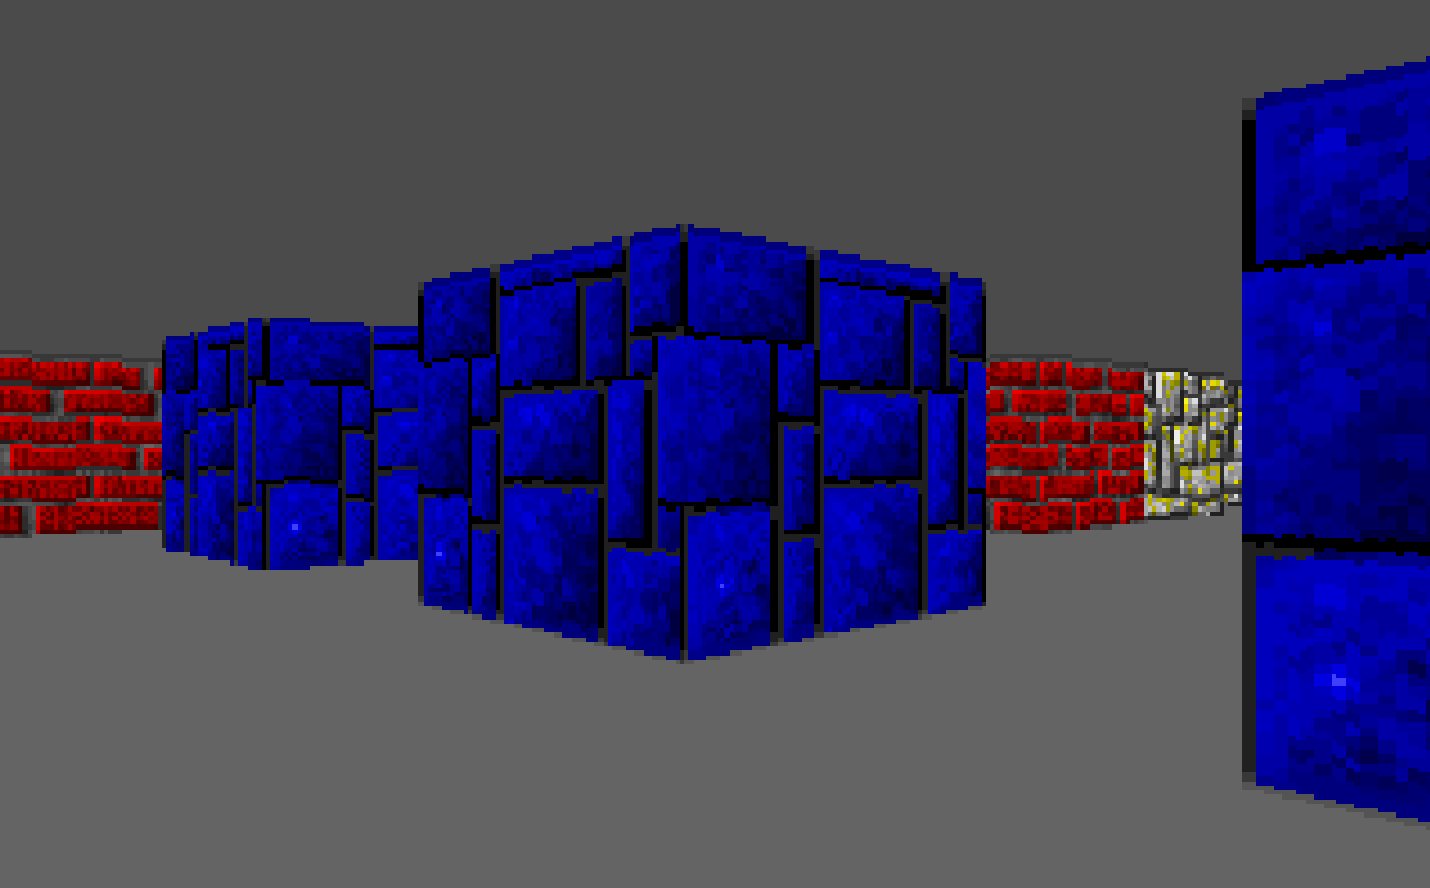
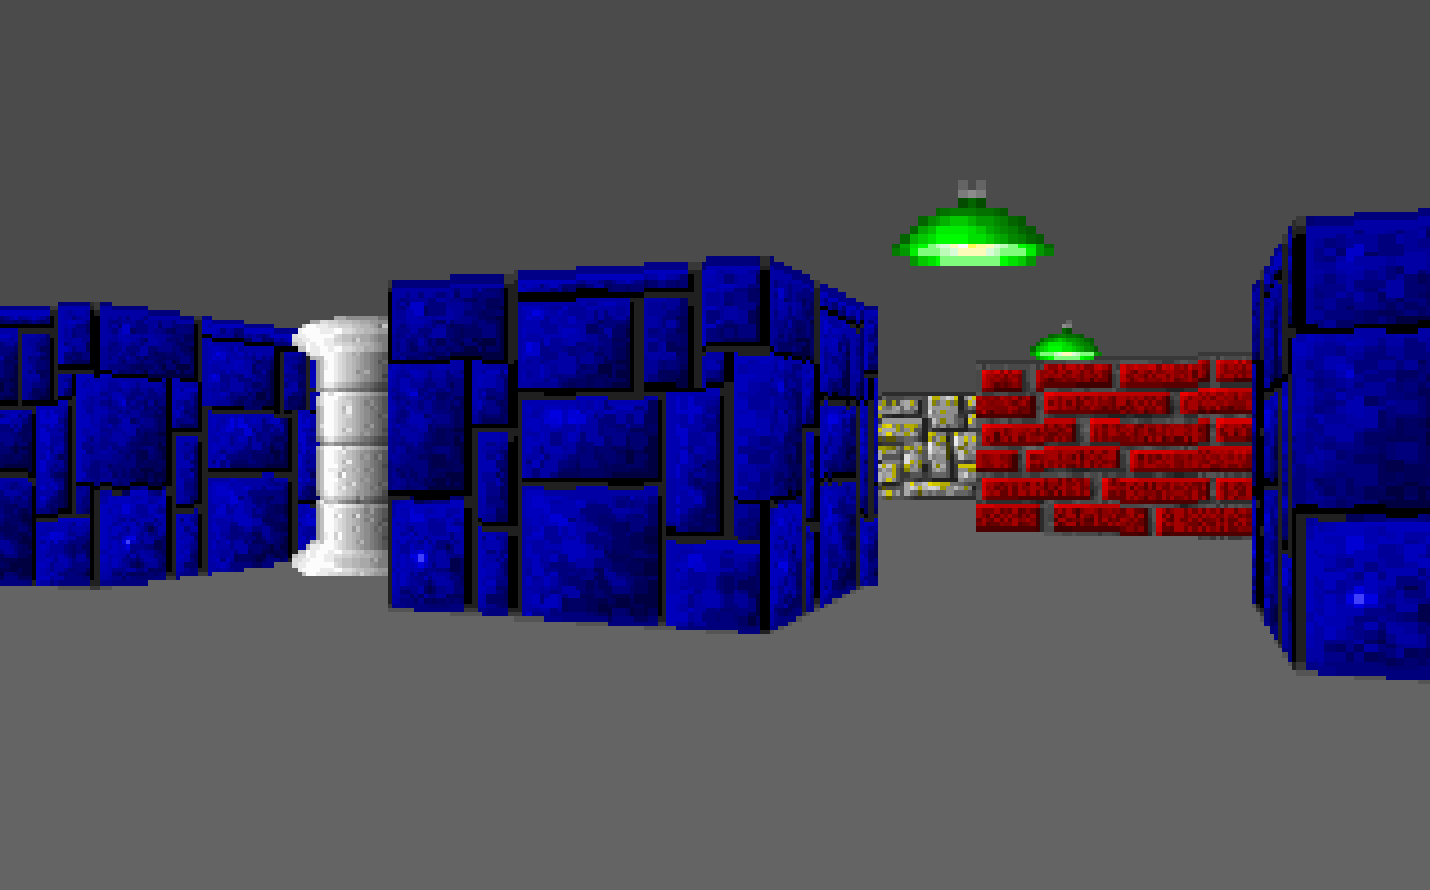
Fixed sprite rendering.

diff --git a/engine/sprite.go b/engine/sprite.go
@@ -1,0 +1,122 @@
+/*
+Copyright (C) 2017 Andreas T Jonsson
+
+This program is free software: you can redistribute it and/or modify
+it under the terms of the GNU General Public License as published by
+the Free Software Foundation, either version 3 of the License, or
+(at your option) any later version.
+
+This program is distributed in the hope that it will be useful,
+but WITHOUT ANY WARRANTY; without even the implied warranty of
+MERCHANTABILITY or FITNESS FOR A PARTICULAR PURPOSE.  See the
+GNU General Public License for more details.
+
+You should have received a copy of the GNU General Public License
+along with this program.  If not, see <http://www.gnu.org/licenses/>.
+*/
+
+package engine
+
+import (
+	"math"
+	"sort"
+
+	"github.com/ungerik/go3d/float64/vec2"
+)
+
+type SpriteInstance struct {
+	Pos vec2.T
+	Tex Texture
+	ln  float64
+}
+
+type SpriteInstances []SpriteInstance
+
+func (s SpriteInstances) Len() int           { return len(s) }
+func (s SpriteInstances) Swap(i, j int)      { s[i], s[j] = s[j], s[i] }
+func (s SpriteInstances) Less(i, j int) bool { return s[i].ln < s[j].ln }
+
+type Spritecaster struct {
+	sprites SpriteInstances
+}
+
+func NewSpritecaster(sprites SpriteInstances) *Spritecaster {
+	return &Spritecaster{sprites}
+}
+
+func (sc *Spritecaster) Render(rc *Raycaster) {
+	// Reference: http://lodev.org/cgtutor/raycasting3.html
+
+	pos := rc.pos
+	dir := rc.dir
+	plane := rc.plane
+
+	// Calculate the distance to all sprites.
+	for _, si := range sc.sprites {
+		si.ln = si.Pos.Sub(&pos).Length()
+	}
+
+	// Sort sprites. (Back to front.)
+	sort.Sort(sc.sprites)
+
+	rtSize := rc.renderTarget.Bounds().Size()
+	for _, s := range sc.sprites {
+		// Translate sprite position to relative to camera.
+		spritePos := s.Pos.Sub(&pos)
+
+		// Transform sprite with the inverse camera matrix.
+		invDet := 1.0 / (plane[0]*dir[1] - dir[0]*plane[1])
+
+		transformX := invDet * (dir[1]*spritePos[0] - dir[0]*spritePos[1])
+		transformY := invDet * (-plane[1]*spritePos[0] + plane[0]*spritePos[1])
+
+		spriteScreenX := int(float64(rtSize.X/2) * (1 + transformX/transformY))
+
+		// Calculate height of the sprite on screen.
+		spriteHeight := int(math.Abs(float64(rtSize.Y) / transformY)) // Using transformY instead of the real distance prevents fisheye.
+
+		// Calculate lowest and highest pixel to fill in current stripe.
+		drawStartY := -spriteHeight/2 + rtSize.Y/2
+		if drawStartY < 0 {
+			drawStartY = 0
+		}
+
+		drawEndY := spriteHeight/2 + rtSize.Y/2
+		if drawEndY >= rtSize.Y {
+			drawEndY = rtSize.Y - 1
+		}
+
+		// Calculate width of the sprite.
+		spriteWidth := int(math.Abs(float64(rtSize.Y) / (transformY)))
+		drawStartX := -spriteWidth/2 + spriteScreenX
+		if drawStartX < 0 {
+			drawStartX = 0
+		}
+
+		drawEndX := spriteWidth/2 + spriteScreenX
+		if drawEndX >= rtSize.X {
+			drawEndX = rtSize.X - 1
+		}
+
+		texSize := s.Tex.Bounds().Size()
+
+		// Loop through every vertical stripe of the sprite on screen.
+		for x := drawStartX; x < drawEndX; x++ {
+			texX := (x - (-spriteWidth/2 + spriteScreenX)) * texSize.X / spriteWidth
+
+			if transformY > 0 && x > 0 && x < rtSize.X && transformY < rc.renderTarget.GetZ(x) {
+				for y := drawStartY; y < drawEndY; y++ {
+					d := y - rtSize.Y/2 + spriteHeight/2
+					texY := int(float64(d*texSize.Y) / float64(spriteHeight))
+
+					c := s.Tex.At(texX, texY)
+					r, g, b, a := c.RGBA()
+
+					if a < 255 || r+g+b > 0 {
+						rc.renderTarget.Set(x, y, c)
+					}
+				}
+			}
+		}
+	}
+}

diff --git a/world/world.go b/world/world.go
@@ -1,5 +1,3 @@
-// +build !mobile
-
 /*
 Copyright (C) 2017 Andreas T Jonsson
 
@@ -27,6 +25,7 @@ import (
 	"path"
 
 	"github.com/andreas-jonsson/go-wolf/engine"
+	"github.com/ungerik/go3d/float64/vec2"
 )
 
 type World struct {
@@ -61,8 +60,8 @@ func (w *World) loadTextures() error {
 		return err
 	}
 
-	for _, s := range textureList {
-		fp, err := os.Open(path.Join("data", "textures", s))
+	for _, t := range textureList {
+		fp, err := os.Open(path.Join("data", "textures", t))
 		if err != nil {
 			return err
 		}
@@ -102,4 +101,46 @@ func (w *World) GetTexture(index, shade int) engine.Texture {
 
 func (w *World) GetTile(x, y int) int {
 	return w.mapData[x][y]
+}
+
+func LoadSprites(name string) (engine.SpriteInstances, error) {
+	fp, err := os.Open(path.Join("data", "sprites", name+".json"))
+	if err != nil {
+		return nil, err
+	}
+	defer fp.Close()
+
+	var (
+		instances  engine.SpriteInstances
+		spriteList []struct {
+			Pos    [2]float64
+			Sprite string
+		}
+	)
+
+	dec := json.NewDecoder(fp)
+	if err := dec.Decode(&spriteList); err != nil {
+		return nil, err
+	}
+
+	for _, s := range spriteList {
+		fp, err := os.Open(path.Join("data", "sprites", s.Sprite))
+		if err != nil {
+			return nil, err
+		}
+
+		img, err := png.Decode(fp)
+		fp.Close()
+
+		if err != nil {
+			return nil, err
+		}
+
+		instances = append(instances, engine.SpriteInstance{
+			Pos: vec2.T{s.Pos[0], s.Pos[1]},
+			Tex: img,
+		})
+	}
+
+	return instances, nil
 }

diff --git a/game/play/play.go b/game/play/play.go
@@ -52,6 +52,13 @@ func (rt *renderTarget) SetZ(x int, z float64) {
 	}
 }
 
+func (rt *renderTarget) GetZ(x int) float64 {
+	if rt.backBuffer != nil {
+		return rt.depth[x]
+	}
+	return -1
+}
+
 func (rt *renderTarget) setBackBuffer(img draw.Image) {
 	rt.bounds = img.Bounds()
 	rt.backBuffer = img
@@ -61,11 +68,19 @@ func (rt *renderTarget) setBackBuffer(img draw.Image) {
 type playState struct {
 	rt *renderTarget
 	rc *engine.Raycaster
+	sc *engine.Spritecaster
 }
 
 func NewPlayState() *playState {
+	const level = "level1"
+
 	rt := new(renderTarget)
-	w, err := world.NewWorld("level1")
+	w, err := world.NewWorld(level)
+	if err != nil {
+		log.Panicln(err)
+	}
+
+	sprites, err := world.LoadSprites(level)
 	if err != nil {
 		log.Panicln(err)
 	}
@@ -73,6 +88,7 @@ func NewPlayState() *playState {
 	return &playState{
 		rt: rt,
 		rc: engine.NewRaycaster(rt, w),
+		sc: engine.NewSpritecaster(sprites),
 	}
 }
 
@@ -142,6 +158,9 @@ func (s *playState) Render(backBuffer draw.Image) error {
 		}
 	}
 
-	s.rc.Render()
+	rc := s.rc
+	rc.Render()
+	s.sc.Render(rc)
+
 	return nil
 }

diff --git a/engine/raycast.go b/engine/raycast.go
@@ -35,6 +35,7 @@ type RenderTarget interface {
 	Bounds() image.Rectangle
 	Set(x, y int, c color.Color)
 	SetZ(x int, z float64)
+	GetZ(x int) float64
 }
 
 type Texture interface {

diff --git a/entry/desktop.go b/entry/desktop.go
@@ -1,5 +1,3 @@
-// +build !mobile
-
 /*
 Copyright (C) 2017 Andreas T Jonsson
 

diff --git a/platform/platform_sdl.go b/platform/platform_sdl.go
@@ -1,5 +1,3 @@
-// +build !mobile
-
 /*
 Copyright (C) 2017 Andreas T Jonsson
 

diff --git a/platform/renderer_sdl.go b/platform/renderer_sdl.go
@@ -1,5 +1,3 @@
-// +build !mobile
-
 /*
 Copyright (C) 2017 Andreas T Jonsson
 

diff --git a/README.md b/README.md
@@ -1,3 +1,5 @@
 # go-wolf
 
 ![screenshot](https://raw.githubusercontent.com/andreas-jonsson/go-wolf/master/doc/screenshot.png "Screen Shot")
+
+Reference: http://lodev.org/cgtutor/raycasting.html
